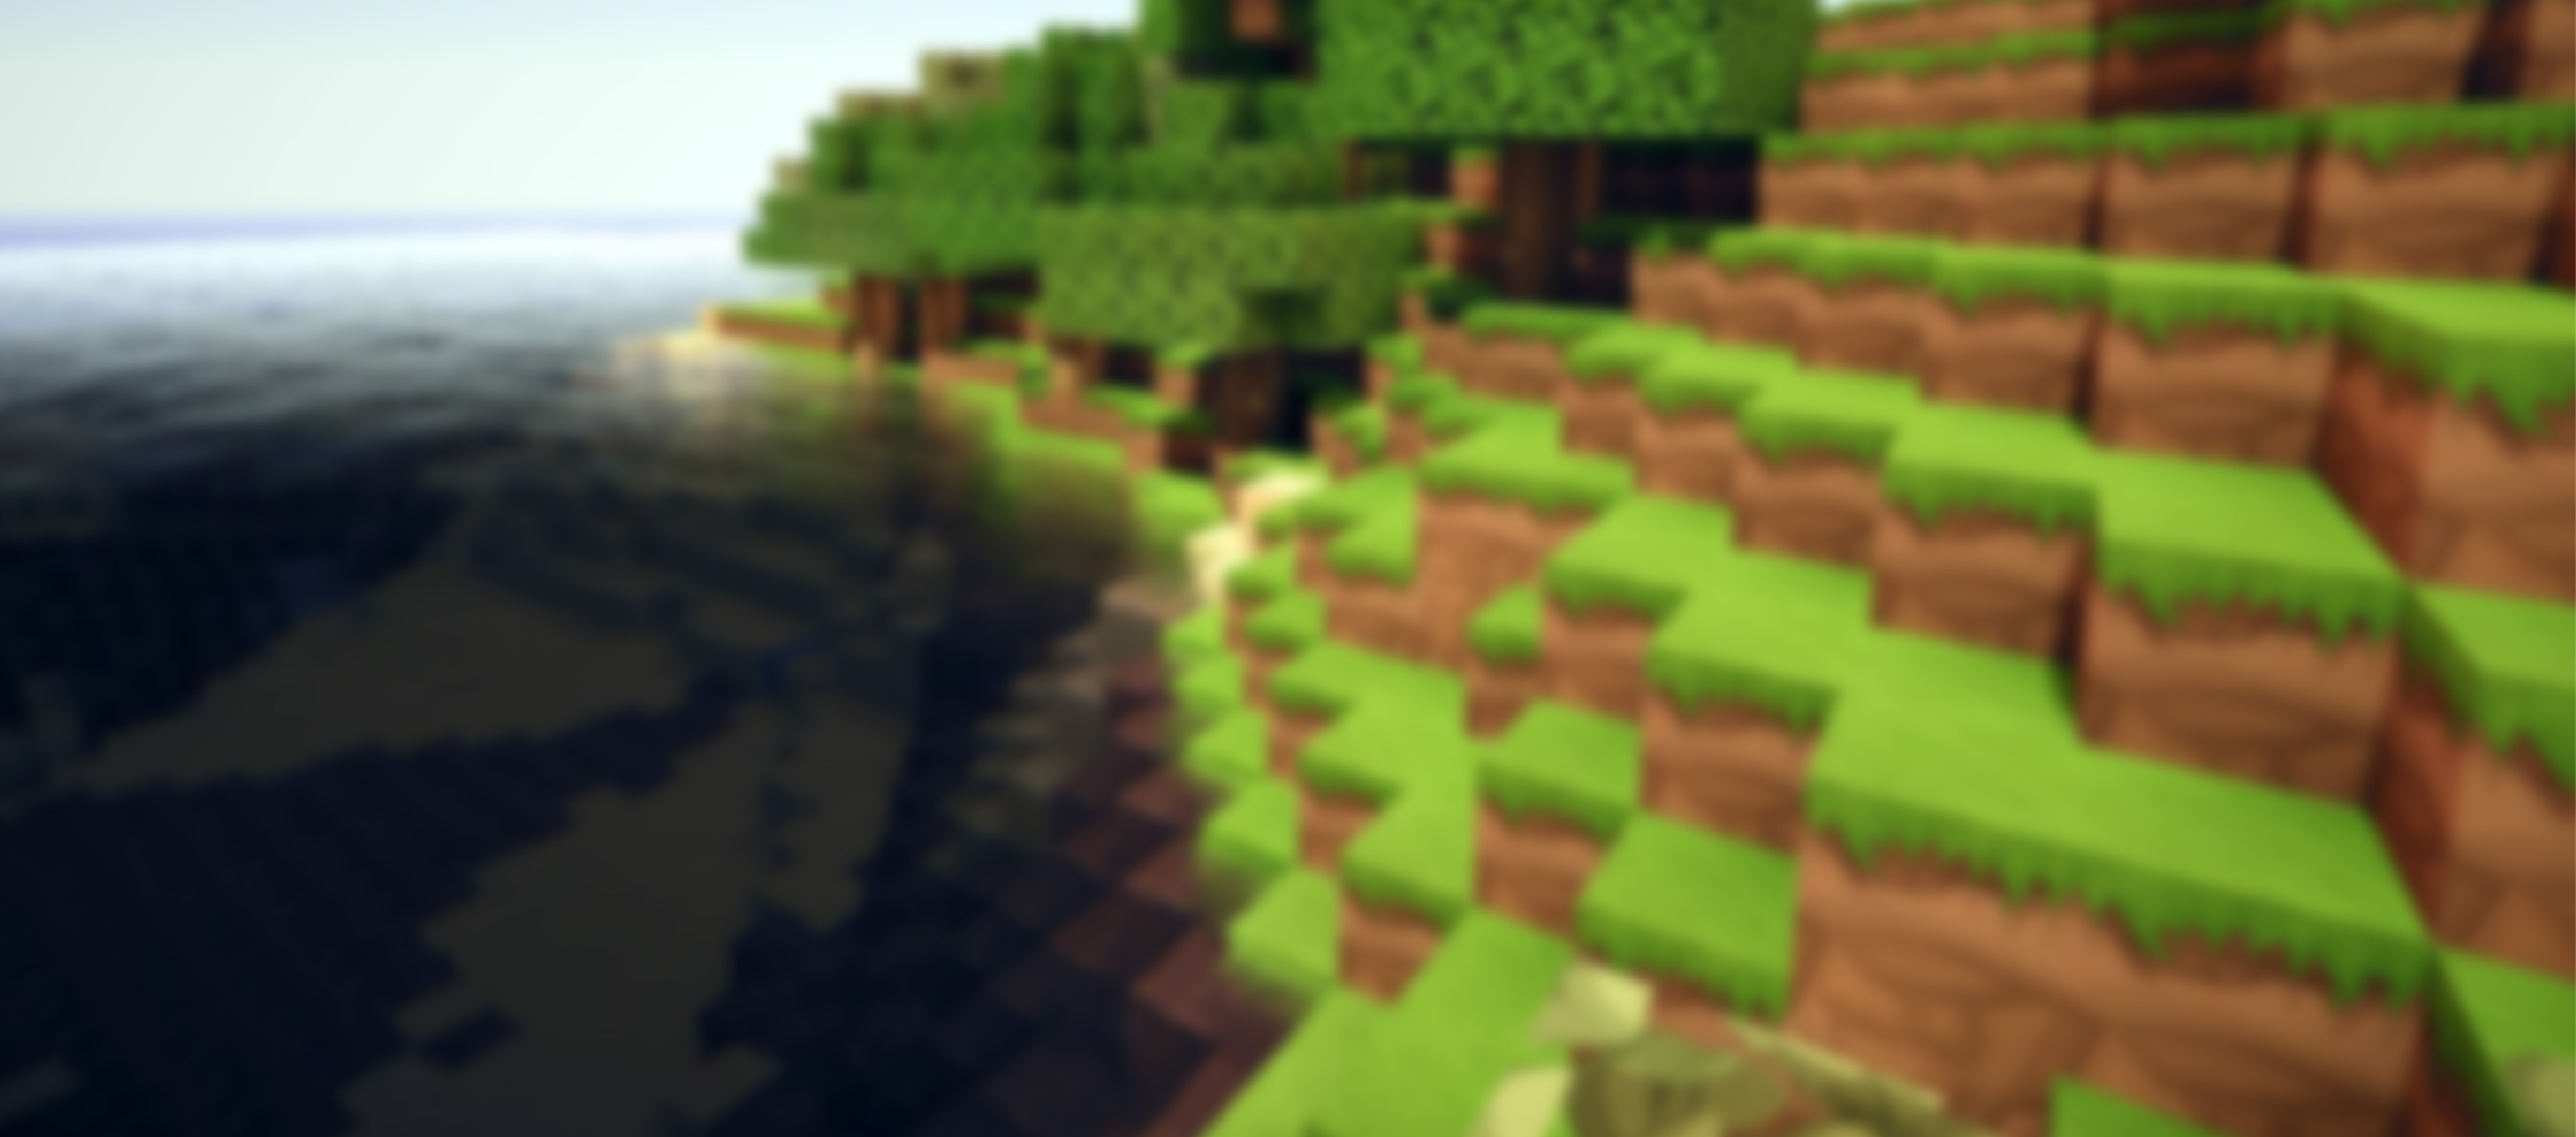
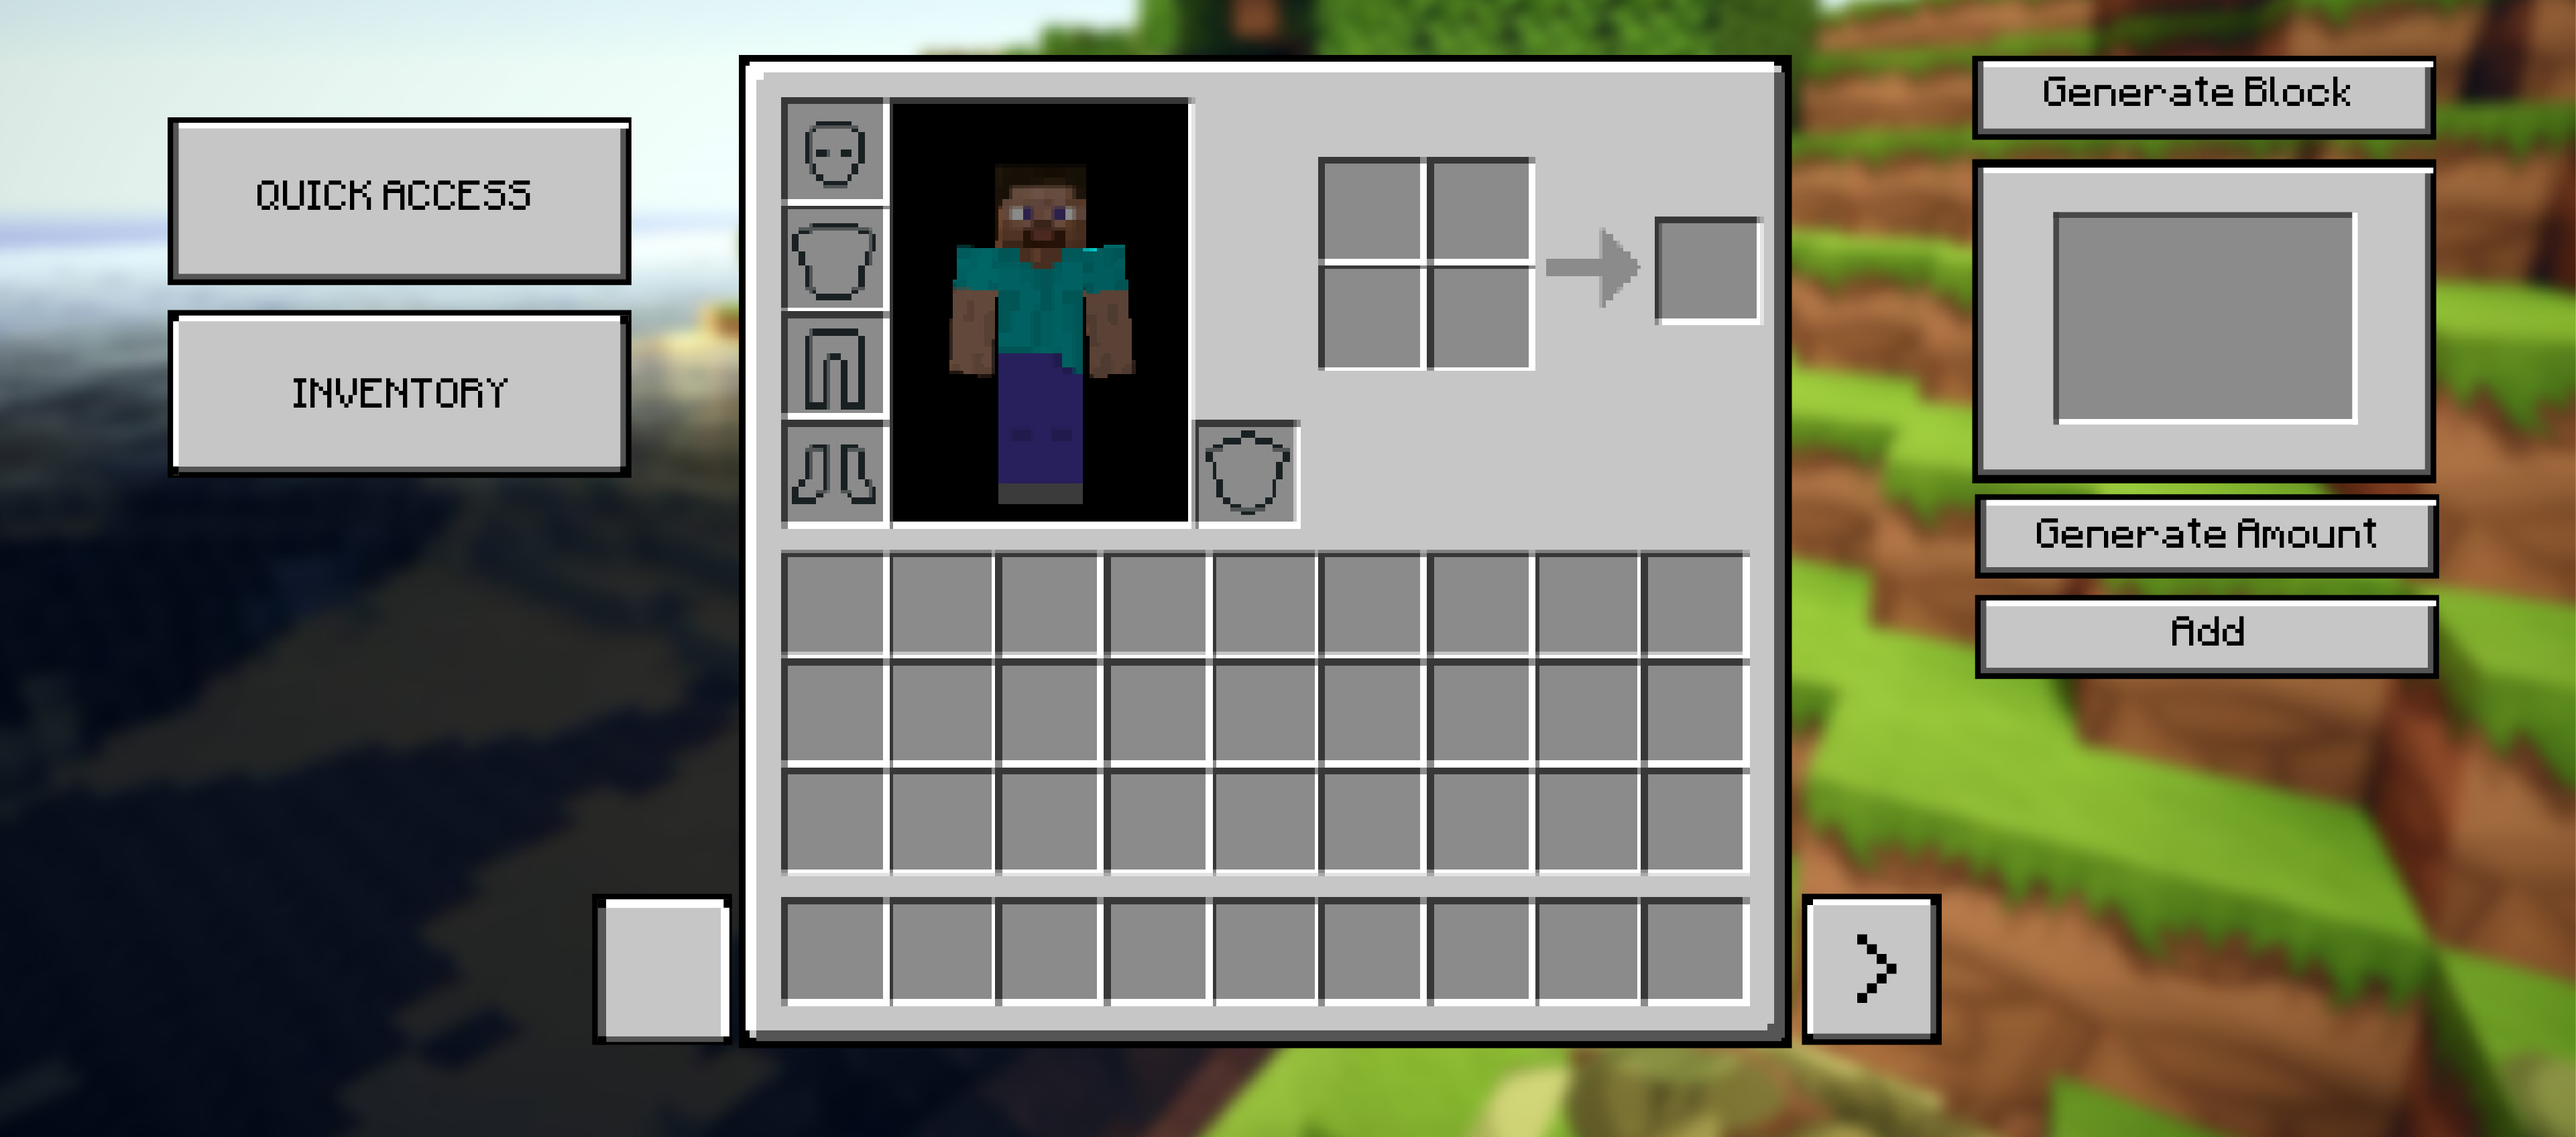
Added the interface options

diff --git a/src/userinterface/GUIController.java b/src/userinterface/GUIController.java
@@ -2,6 +2,7 @@ package userinterface;
 
 import javafx.event.ActionEvent;
 import javafx.fxml.FXML;
+import javafx.scene.control.Button;
 import javafx.scene.control.Label;
 import javafx.scene.image.Image;
 import javafx.scene.image.ImageView;
@@ -9,6 +10,22 @@ import model.Inventary;
 import threads.AnimationThread;
 
 public class GUIController {
+	
+	public final static char QUICK_ACCESS =  'Q';
+	
+	public final static char INVENTORY = 'c';
+	
+    @FXML
+    private ImageView opacity31;
+
+    @FXML
+    private Button quickAccessButton;
+
+    @FXML
+    private Button inventoryButton;
+    
+    @FXML
+    private Button generateAmountButton;
 
     @FXML
     private ImageView imv11;
@@ -116,16 +133,42 @@ public class GUIController {
     private ImageView imv41;
 
     @FXML
+    private ImageView opacity1;
+
+    @FXML
+    private ImageView opacity2;
+
+    @FXML
     private ImageView imvRandomBlocks;
+    
+
+    @FXML
+    private Label modeLabel;
     
     @FXML
     private Label amount;
+    
+    @FXML
+    private ImageView opacity3;
    
     private Inventary inventary;
     
+    private char mode;
+        
     @FXML
     public void initialize() {
+    	
+    	generateAmountButton.setVisible(false);
     	inventary = new Inventary();
+    	opacity1.setVisible(false);
+    	mode = INVENTORY;
+    	quickAccessButton.setVisible(true);
+    	inventoryButton.setVisible(false);
+    	opacity3.setVisible(false);
+    	opacity31.setVisible(false);
+    	modeLabel.setText("You are in INVENTORY MODE");
+    	opacity3.setVisible(true);
+    	
     }
     
     @FXML
@@ -134,14 +177,19 @@ public class GUIController {
     }
 
     @FXML
-    void exit(ActionEvent event) {
-
+    void inventory(ActionEvent event) {
+    	opacity31.setVisible(false);
+    	imvRandomBlocks.setImage(new Image("/images/Null-02.jpg"));
+    	amount.setText("");
+    	changeMode();
     }
 
     @FXML
     void generateBlock(ActionEvent event) {
     	
+    	amount.setText("");
     	inventary.generateRandomBlock();
+    	
     	AnimationThread aT = new AnimationThread(this, inventary);
     	aT.setDaemon(true);
     	aT.start(); 
@@ -151,6 +199,7 @@ public class GUIController {
     
     @FXML
     void generateAmount(ActionEvent event) {
+    	opacity31.setVisible(false);
     	amount.setText(inventary.getCurrentAmount()+"");
     }
 
@@ -160,8 +209,11 @@ public class GUIController {
     }
 
     @FXML
-    void reestart(ActionEvent event) {
-    	
+    void quickAccess(ActionEvent event) {
+    	opacity31.setVisible(true);
+     	imvRandomBlocks.setImage(new Image("/images/Null-02.jpg"));
+    	amount.setText("");
+    	changeMode();
     }
     
     public void setImageRandom(String id) {;
@@ -173,6 +225,25 @@ public class GUIController {
 
     }
 
+    public void changeMode() {
+    	if(modeLabel.getText().equals("You are in INVENTORY MODE")) {
+    		modeLabel.setText("You are in QUICK ACCESS MODE");
+    		quickAccessButton.setVisible(false);
+    		inventoryButton.setVisible(true);
+    		generateAmountButton.setVisible(true);
+    		opacity1.setVisible(true);
+    		opacity3.setVisible(false);
+    		opacity2.setVisible(false);
+    	}else {
+    		modeLabel.setText("You are in INVENTORY MODE");		
+    		quickAccessButton.setVisible(true);
+    		inventoryButton.setVisible(false);
+    		opacity1.setVisible(false);
+    		generateAmountButton.setVisible(false);
+    		opacity2.setVisible(true);
+    		opacity3.setVisible(true);
+    	}
+    }
 
     
   //  public void 
